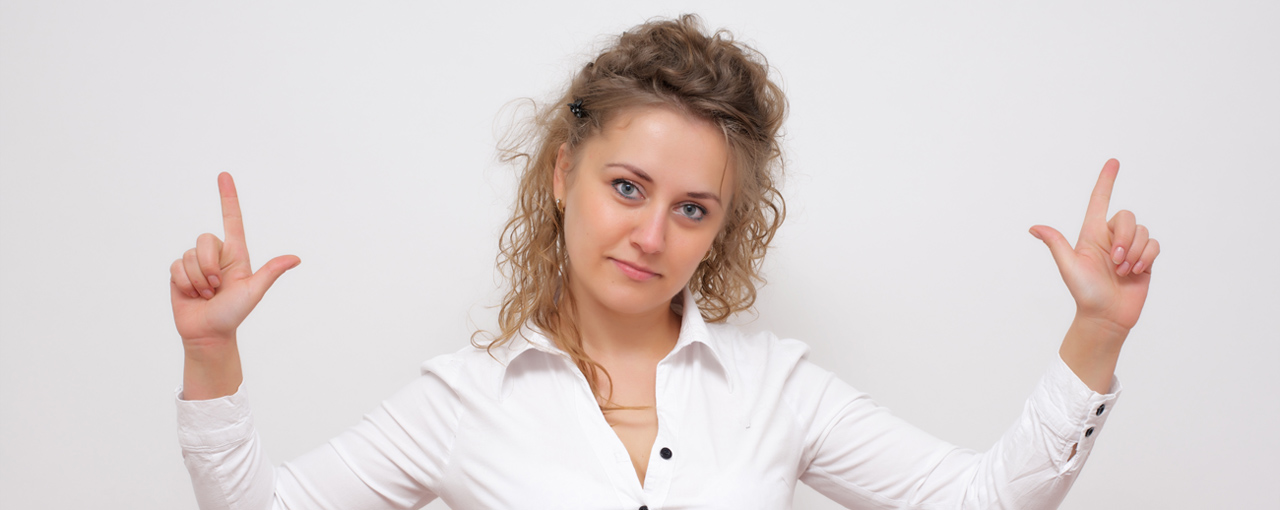
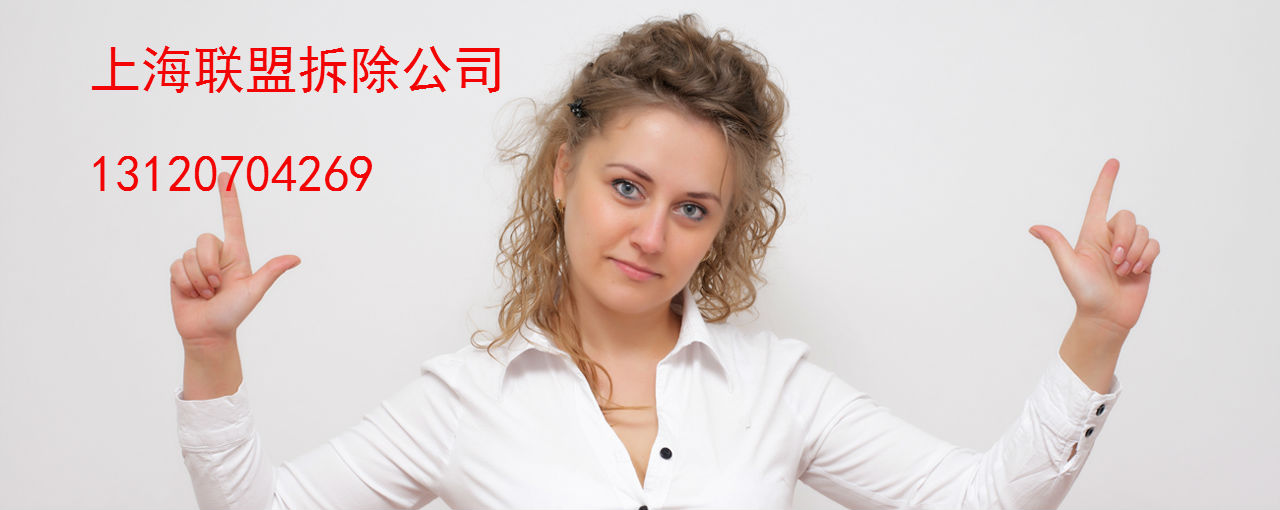
update
更新公司的联系方式等情况

Changed region(s): [[0.0625, 0.0882, 0.4062, 0.2059], [0.0625, 0.2941, 0.3125, 0.3824]]

diff --git a/plans.html b/plans.html
@@ -1,13 +1,12 @@
 <!DOCTYPE HTML>
 <html>
 <head>
-<title>厂房拆除</title>
+<title>上海联盟拆除公司-厂房拆除</title>
 <link href="css/bootstrap.css" rel="stylesheet" type="text/css" media="all">
 <link href="css/style.css" rel="stylesheet" type="text/css" media="all" />
 <meta name="viewport" content="width=device-width, initial-scale=1">
 <meta http-equiv="Content-Type" content="text/html; charset=utf-8" />
-<meta name="keywords" content="Quamax Responsive web template, Bootstrap Web Templates, Flat Web Templates, Andriod Compatible web template, 
-Smartphone Compatible web template, free webdesigns for Nokia, Samsung, LG, SonyErricsson, Motorola web design" />
+<meta name="keywords" content="上海厂房拆除、上海楼房拆除、上海广告牌拆除、上海酒店拆除、上海物资回收、上海化工厂拆除、上海桥梁拆除" />
 <script type="application/x-javascript"> addEventListener("load", function() { setTimeout(hideURLbar, 0); }, false); function hideURLbar(){ window.scrollTo(0,1); } </script>
 <link rel="stylesheet" href="css/flexslider.css" type="text/css" media="screen" />
 <script src="js/jquery.min.js"></script>

diff --git a/pages.html b/pages.html
@@ -1,13 +1,12 @@
 <!DOCTYPE HTML>
 <html>
 <head>
-<title>Pages</title>
+<title>上海联盟拆除公司-室内装潢拆除</title>
 <link href="css/bootstrap.css" rel="stylesheet" type="text/css" media="all">
 <link href="css/style.css" rel="stylesheet" type="text/css" media="all" />
 <meta name="viewport" content="width=device-width, initial-scale=1">
 <meta http-equiv="Content-Type" content="text/html; charset=utf-8" />
-<meta name="keywords" content="Quamax Responsive web template, Bootstrap Web Templates, Flat Web Templates, Andriod Compatible web template, 
-Smartphone Compatible web template, free webdesigns for Nokia, Samsung, LG, SonyErricsson, Motorola web design" />
+<meta name="keywords" content="上海厂房拆除、上海楼房拆除、上海广告牌拆除、上海酒店拆除、上海物资回收、上海化工厂拆除、上海桥梁拆除" />
 <script type="application/x-javascript"> addEventListener("load", function() { setTimeout(hideURLbar, 0); }, false); function hideURLbar(){ window.scrollTo(0,1); } </script>
 <link rel="stylesheet" href="css/flexslider.css" type="text/css" media="screen" />
 <script src="js/jquery.min.js"></script>

diff --git a/services.html b/services.html
@@ -1,13 +1,12 @@
 <!DOCTYPE HTML>
 <html>
 <head>
-<title>Services</title>
+<title>上海联盟拆除公司-广告牌拆除</title>
 <link href="css/bootstrap.css" rel="stylesheet" type="text/css" media="all">
 <link href="css/style.css" rel="stylesheet" type="text/css" media="all" />
 <meta name="viewport" content="width=device-width, initial-scale=1">
 <meta http-equiv="Content-Type" content="text/html; charset=utf-8" />
-<meta name="keywords" content="Quamax Responsive web template, Bootstrap Web Templates, Flat Web Templates, Andriod Compatible web template, 
-Smartphone Compatible web template, free webdesigns for Nokia, Samsung, LG, SonyErricsson, Motorola web design" />
+<meta name="keywords" content="上海厂房拆除、上海楼房拆除、上海广告牌拆除、上海酒店拆除、上海物资回收、上海化工厂拆除、上海桥梁拆除" />
 <script type="application/x-javascript"> addEventListener("load", function() { setTimeout(hideURLbar, 0); }, false); function hideURLbar(){ window.scrollTo(0,1); } </script>
 <link rel="stylesheet" href="css/flexslider.css" type="text/css" media="screen" />
 <script src="js/jquery.min.js"></script>

diff --git a/contact.html b/contact.html
@@ -1,13 +1,12 @@
 <!DOCTYPE HTML>
 <html>
 <head>
-<title>Contact</title>
+<title>上海联盟拆除公司-化工厂拆除</title>
 <link href="css/bootstrap.css" rel="stylesheet" type="text/css" media="all">
 <link href="css/style.css" rel="stylesheet" type="text/css" media="all" />
 <meta name="viewport" content="width=device-width, initial-scale=1">
 <meta http-equiv="Content-Type" content="text/html; charset=utf-8" />
-<meta name="keywords" content="Quamax Responsive web template, Bootstrap Web Templates, Flat Web Templates, Andriod Compatible web template, 
-Smartphone Compatible web template, free webdesigns for Nokia, Samsung, LG, SonyErricsson, Motorola web design" />
+<meta name="keywords" content="上海厂房拆除、上海楼房拆除、上海广告牌拆除、上海酒店拆除、上海物资回收、上海化工厂拆除、上海桥梁拆除" />
 <script type="application/x-javascript"> addEventListener("load", function() { setTimeout(hideURLbar, 0); }, false); function hideURLbar(){ window.scrollTo(0,1); } </script>
 <link rel="stylesheet" href="css/flexslider.css" type="text/css" media="screen" />
 <script src="js/jquery.min.js"></script>

diff --git a/domain.html b/domain.html
@@ -1,13 +1,12 @@
 <!DOCTYPE HTML>
 <html>
 <head>
-<title>Domain</title>
+<title>上海联盟拆除公司-酒店拆除</title>
 <link href="css/bootstrap.css" rel="stylesheet" type="text/css" media="all">
 <link href="css/style.css" rel="stylesheet" type="text/css" media="all" />
 <meta name="viewport" content="width=device-width, initial-scale=1">
 <meta http-equiv="Content-Type" content="text/html; charset=utf-8" />
-<meta name="keywords" content="Quamax Responsive web template, Bootstrap Web Templates, Flat Web Templates, Andriod Compatible web template, 
-Smartphone Compatible web template, free webdesigns for Nokia, Samsung, LG, SonyErricsson, Motorola web design" />
+<meta name="keywords" content="上海厂房拆除、上海楼房拆除、上海广告牌拆除、上海酒店拆除、上海物资回收、上海化工厂拆除、上海桥梁拆除" />
 <script type="application/x-javascript"> addEventListener("load", function() { setTimeout(hideURLbar, 0); }, false); function hideURLbar(){ window.scrollTo(0,1); } </script>
 <link rel="stylesheet" href="css/flexslider.css" type="text/css" media="screen" />
 <script src="js/jquery.min.js"></script>

diff --git a/about.html b/about.html
@@ -1,13 +1,12 @@
 <!DOCTYPE HTML>
 <html>
 <head>
-<title>About</title>
+<title>上海联盟拆除公司-关于我们</title>
 <link href="css/bootstrap.css" rel="stylesheet" type="text/css" media="all">
 <link href="css/style.css" rel="stylesheet" type="text/css" media="all" />
 <meta name="viewport" content="width=device-width, initial-scale=1">
 <meta http-equiv="Content-Type" content="text/html; charset=utf-8" />
-<meta name="keywords" content="Quamax Responsive web template, Bootstrap Web Templates, Flat Web Templates, Andriod Compatible web template, 
-Smartphone Compatible web template, free webdesigns for Nokia, Samsung, LG, SonyErricsson, Motorola web design" />
+<meta name="keywords" content="上海厂房拆除、上海楼房拆除、上海广告牌拆除、上海酒店拆除、上海物资回收、上海化工厂拆除、上海桥梁拆除" />
 <script type="application/x-javascript"> addEventListener("load", function() { setTimeout(hideURLbar, 0); }, false); function hideURLbar(){ window.scrollTo(0,1); } </script>
 <link rel="stylesheet" href="css/flexslider.css" type="text/css" media="screen" />
 <script src="js/jquery.min.js"></script>

diff --git a/login.html b/login.html
@@ -1,13 +1,12 @@
 <!DOCTYPE HTML>
 <html>
 <head>
-<title>Login</title>
+<title>上海联盟拆除公司-厂房拆除</title>
 <link href="css/bootstrap.css" rel="stylesheet" type="text/css" media="all">
 <link href="css/style.css" rel="stylesheet" type="text/css" media="all" />
 <meta name="viewport" content="width=device-width, initial-scale=1">
 <meta http-equiv="Content-Type" content="text/html; charset=utf-8" />
-<meta name="keywords" content="Quamax Responsive web template, Bootstrap Web Templates, Flat Web Templates, Andriod Compatible web template, 
-Smartphone Compatible web template, free webdesigns for Nokia, Samsung, LG, SonyErricsson, Motorola web design" />
+<meta name="keywords" content="上海厂房拆除、上海楼房拆除、上海广告牌拆除、上海酒店拆除、上海物资回收、上海化工厂拆除、上海桥梁拆除" />
 <script type="application/x-javascript"> addEventListener("load", function() { setTimeout(hideURLbar, 0); }, false); function hideURLbar(){ window.scrollTo(0,1); } </script>
 <link rel="stylesheet" href="css/flexslider.css" type="text/css" media="screen" />
 <script src="js/jquery.min.js"></script>

diff --git a/loufang.html b/loufang.html
@@ -1,13 +1,12 @@
 <!DOCTYPE HTML>
 <html>
 <head>
-<title>Pages</title>
+<title>上海联盟拆除公司-楼房拆除</title>
 <link href="css/bootstrap.css" rel="stylesheet" type="text/css" media="all">
 <link href="css/style.css" rel="stylesheet" type="text/css" media="all" />
 <meta name="viewport" content="width=device-width, initial-scale=1">
 <meta http-equiv="Content-Type" content="text/html; charset=utf-8" />
-<meta name="keywords" content="Quamax Responsive web template, Bootstrap Web Templates, Flat Web Templates, Andriod Compatible web template, 
-Smartphone Compatible web template, free webdesigns for Nokia, Samsung, LG, SonyErricsson, Motorola web design" />
+<meta name="keywords" content="上海厂房拆除、上海楼房拆除、上海广告牌拆除、上海酒店拆除、上海物资回收、上海化工厂拆除、上海桥梁拆除" />
 <script type="application/x-javascript"> addEventListener("load", function() { setTimeout(hideURLbar, 0); }, false); function hideURLbar(){ window.scrollTo(0,1); } </script>
 <link rel="stylesheet" href="css/flexslider.css" type="text/css" media="screen" />
 <script src="js/jquery.min.js"></script>

diff --git a/404.html b/404.html
@@ -1,13 +1,12 @@
 <!DOCTYPE HTML>
 <html>
 <head>
-<title>404</title>
+<title>上海联盟拆除公司-桥梁拆除</title>
 <link href="css/bootstrap.css" rel="stylesheet" type="text/css" media="all">
 <link href="css/style.css" rel="stylesheet" type="text/css" media="all" />
 <meta name="viewport" content="width=device-width, initial-scale=1">
 <meta http-equiv="Content-Type" content="text/html; charset=utf-8" />
-<meta name="keywords" content="Quamax Responsive web template, Bootstrap Web Templates, Flat Web Templates, Andriod Compatible web template, 
-Smartphone Compatible web template, free webdesigns for Nokia, Samsung, LG, SonyErricsson, Motorola web design" />
+<meta name="keywords" content="上海厂房拆除、上海楼房拆除、上海广告牌拆除、上海酒店拆除、上海物资回收、上海化工厂拆除、上海桥梁拆除" />
 <script type="application/x-javascript"> addEventListener("load", function() { setTimeout(hideURLbar, 0); }, false); function hideURLbar(){ window.scrollTo(0,1); } </script>
 <link rel="stylesheet" href="css/flexslider.css" type="text/css" media="screen" />
 <script src="js/jquery.min.js"></script>

diff --git a/register.html b/register.html
@@ -1,13 +1,12 @@
 <!DOCTYPE HTML>
 <html>
 <head>
-<title>Register</title>
+<title>上海联盟拆除公司-</title>
 <link href="css/bootstrap.css" rel="stylesheet" type="text/css" media="all">
 <link href="css/style.css" rel="stylesheet" type="text/css" media="all" />
 <meta name="viewport" content="width=device-width, initial-scale=1">
 <meta http-equiv="Content-Type" content="text/html; charset=utf-8" />
-<meta name="keywords" content="Quamax Responsive web template, Bootstrap Web Templates, Flat Web Templates, Andriod Compatible web template, 
-Smartphone Compatible web template, free webdesigns for Nokia, Samsung, LG, SonyErricsson, Motorola web design" />
+<meta name="keywords" content="上海厂房拆除、上海楼房拆除、上海广告牌拆除、上海酒店拆除、上海物资回收、上海化工厂拆除、上海桥梁拆除" />
 <script type="application/x-javascript"> addEventListener("load", function() { setTimeout(hideURLbar, 0); }, false); function hideURLbar(){ window.scrollTo(0,1); } </script>
 <link rel="stylesheet" href="css/flexslider.css" type="text/css" media="screen" />
 <script src="js/jquery.min.js"></script>
